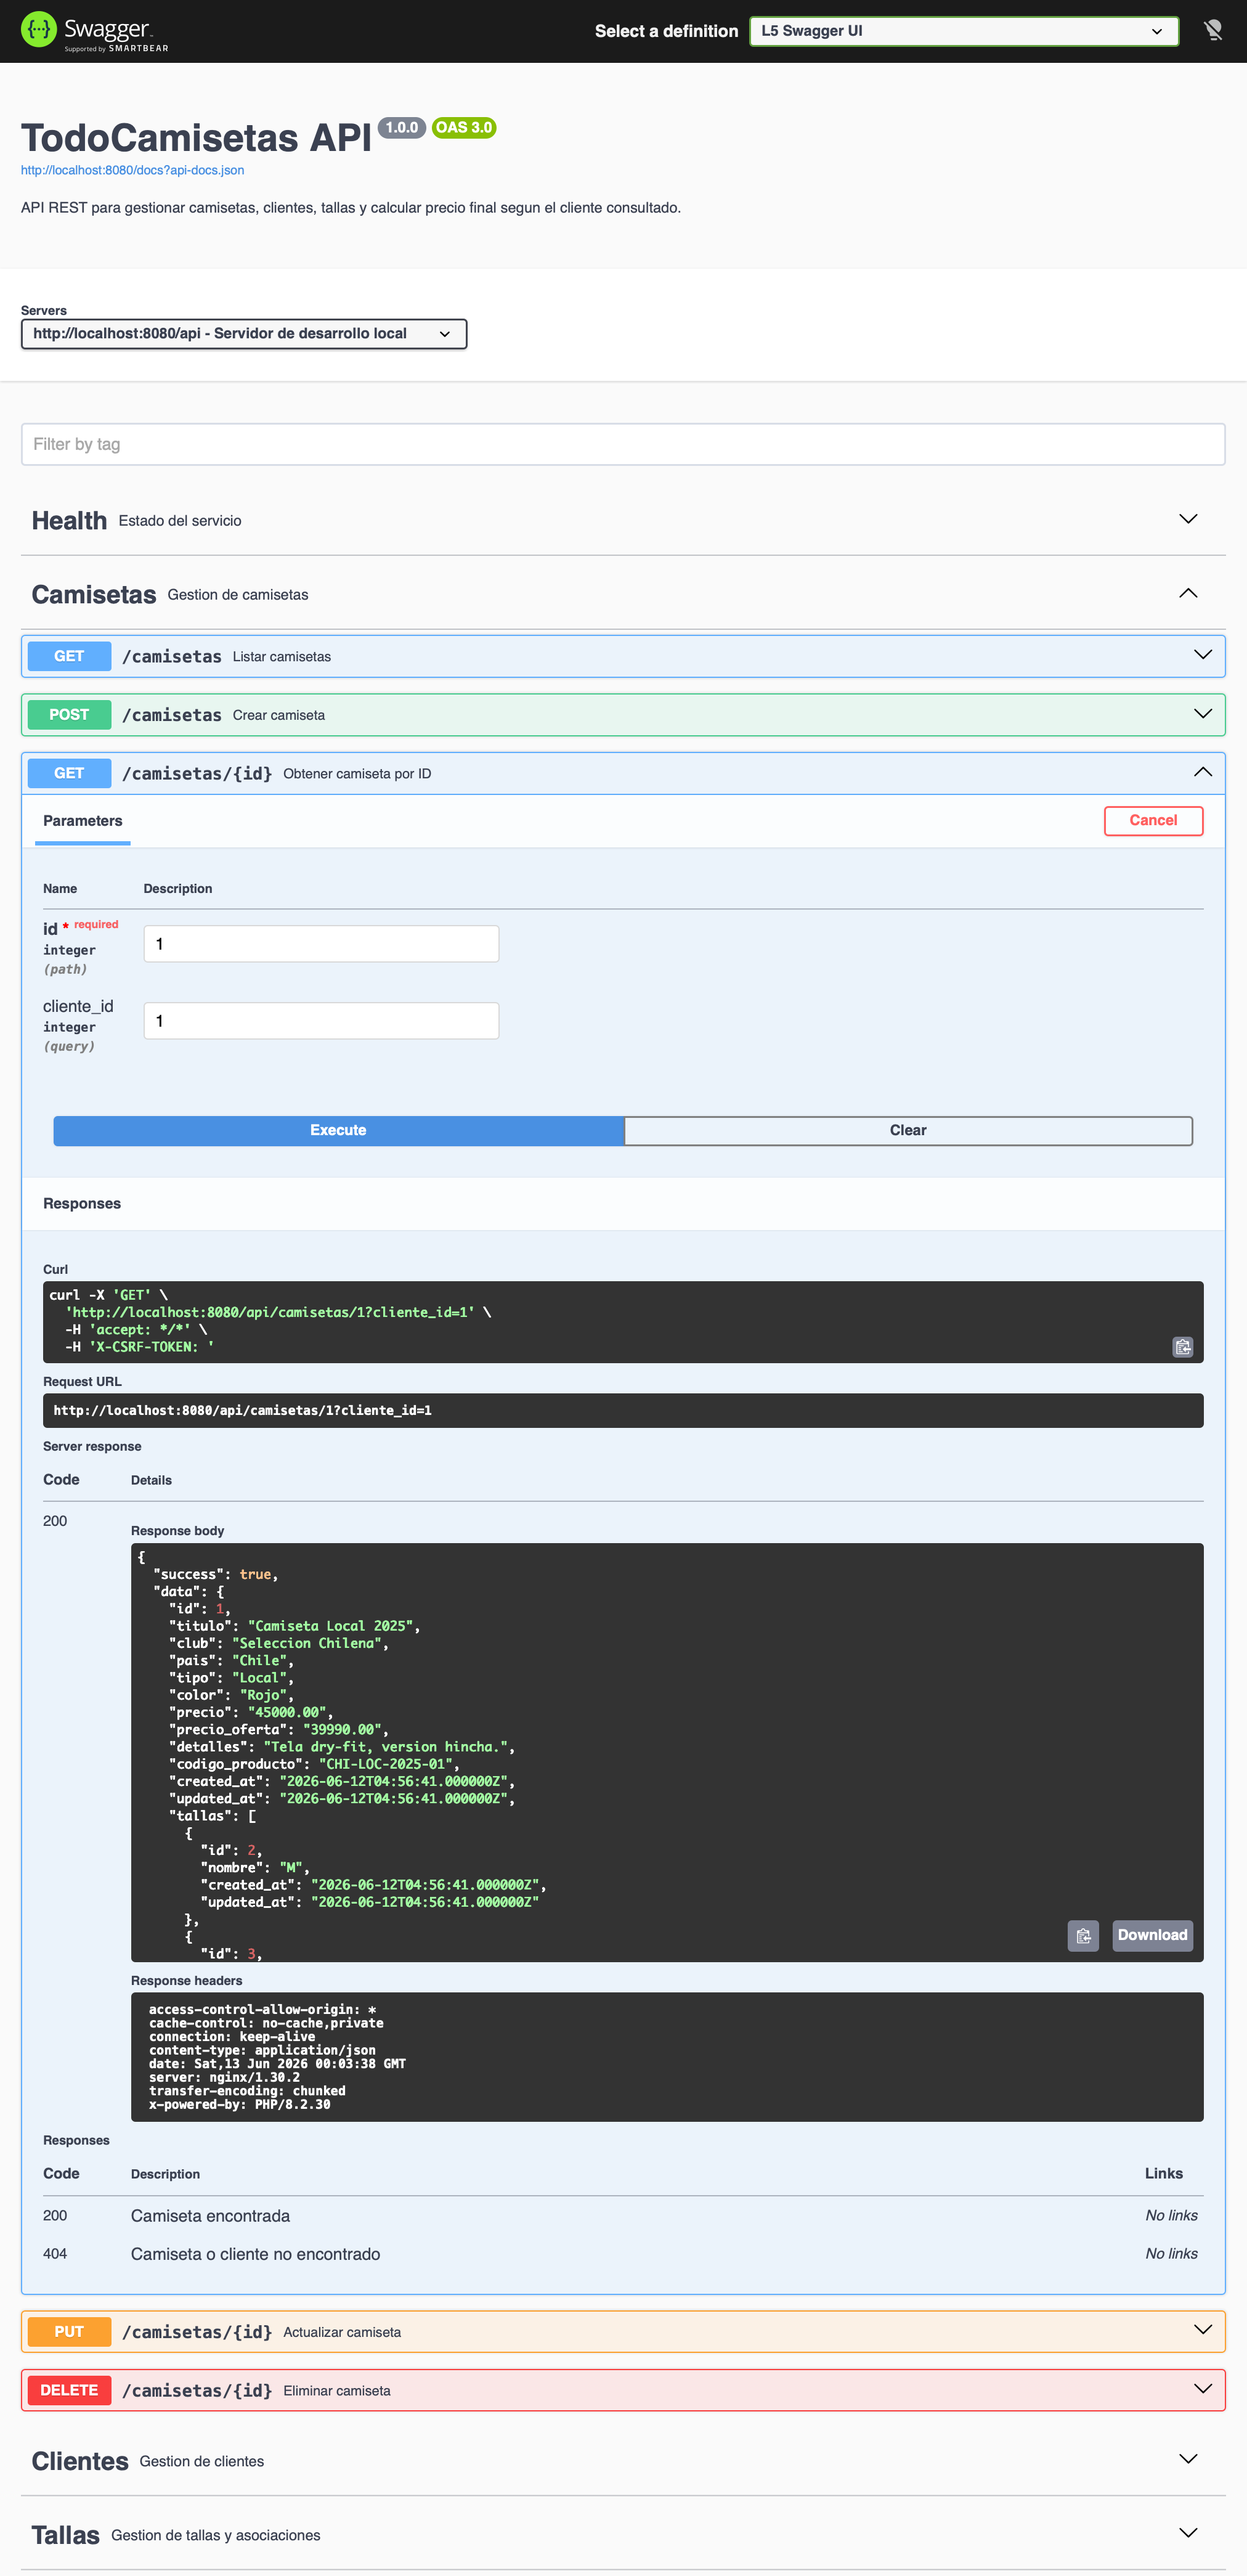
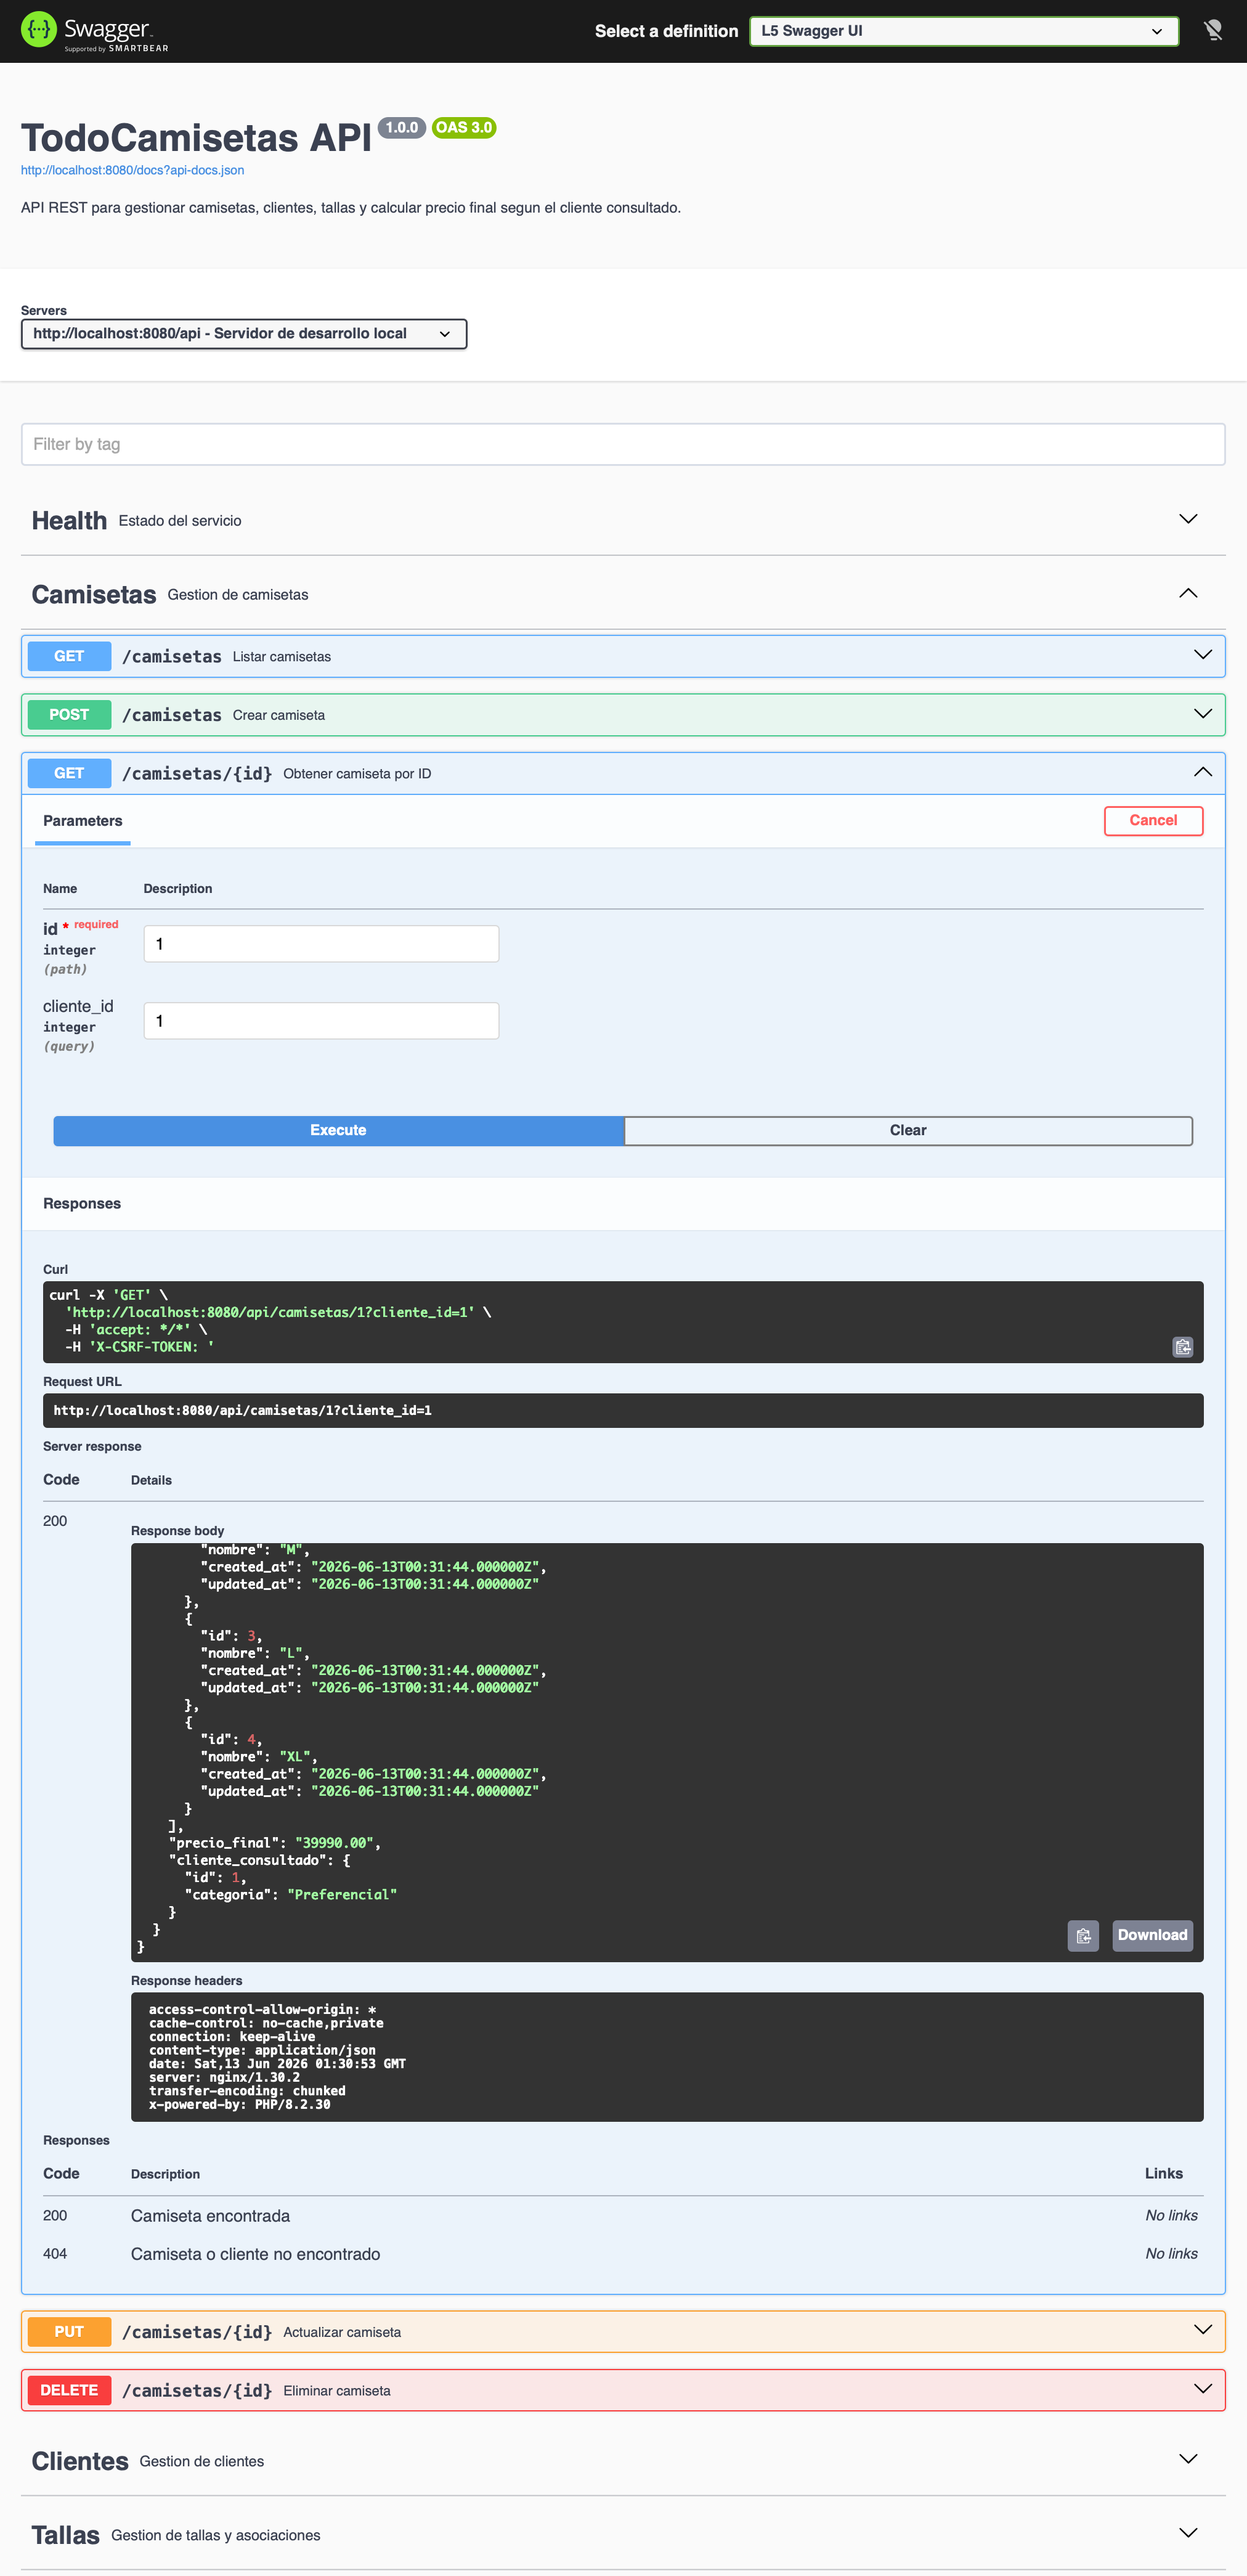
docs: refresh swagger pricing evidence

Changed region(s): [[0.1245, 0.5909, 0.4358, 0.7464]]

diff --git a/README.md b/README.md
@@ -548,13 +548,19 @@ Las siguientes capturas quedaron integradas dentro del repositorio en `Evidencia
 
 1. `GET /api/camisetas/{id}` con cliente preferencial
 
+Caso documentado: `id = 1`, `cliente_id = 1`, `precio_final = 39990.00`
+
 ![Precio final preferencial](Evidencias/swaggerui/16_precio_final_preferencial.png)
 
 2. `GET /api/camisetas/{id}` con cliente regular
 
+Caso documentado: `id = 1`, `cliente_id = 2`, `precio_final = 45000.00`
+
 ![Precio final regular](Evidencias/swaggerui/17_precio_final_regular.png)
 
 3. `GET /api/camisetas/{id}` con `cliente_id` inexistente
+
+Caso documentado: `id = 2`, `cliente_id = 999`, respuesta `404`
 
 ![Cliente no encontrado para precio final](Evidencias/swaggerui/18_precio_final_cliente_404.png)
 

diff --git a/PLAN_PRUEBAS_SWAGGER.md b/PLAN_PRUEBAS_SWAGGER.md
@@ -306,13 +306,16 @@ Objetivo: demostrar que `precio_final = precio`.
 
 Usar:
 
-- `id = 2`
+- `id = 1`
 - `cliente_id = 2`
 
 Resultado esperado:
 
 - `cliente_consultado.categoria = Regular`
-- `precio_final = 47000.00`
+- `precio_final = 45000.00`
+- `precio_oferta = 39990.00`
+
+Nota: este caso es mas fuerte si se usa la misma camiseta con oferta del escenario preferencial, porque demuestra que el precio cambia por el tipo de cliente y no por el producto consultado.
 
 Captura sugerida:
 
